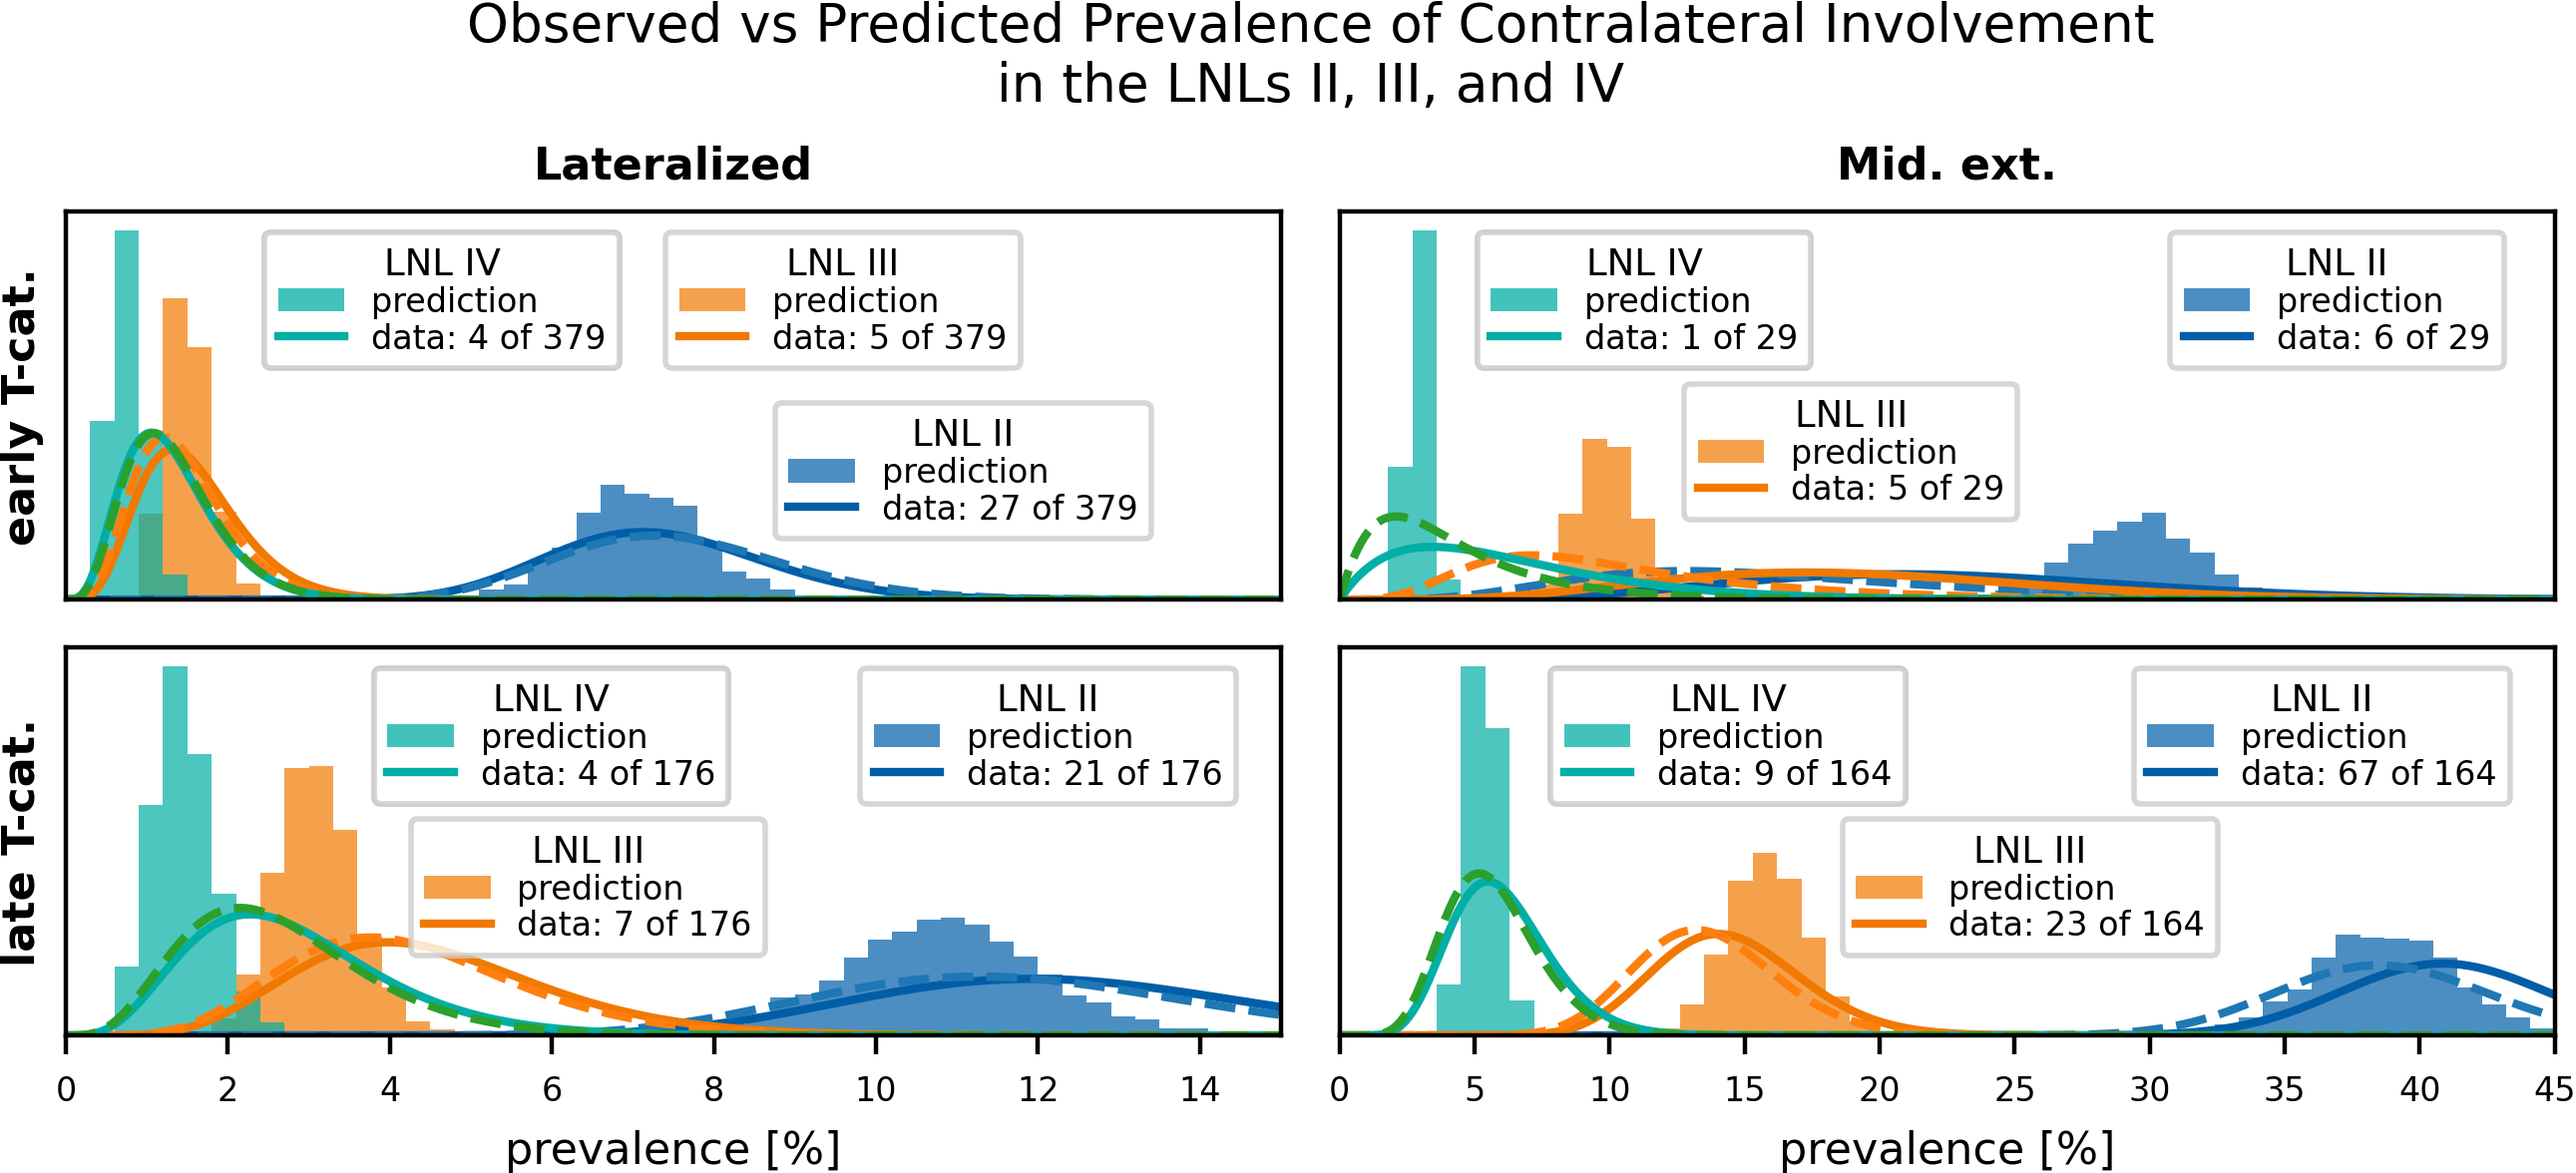
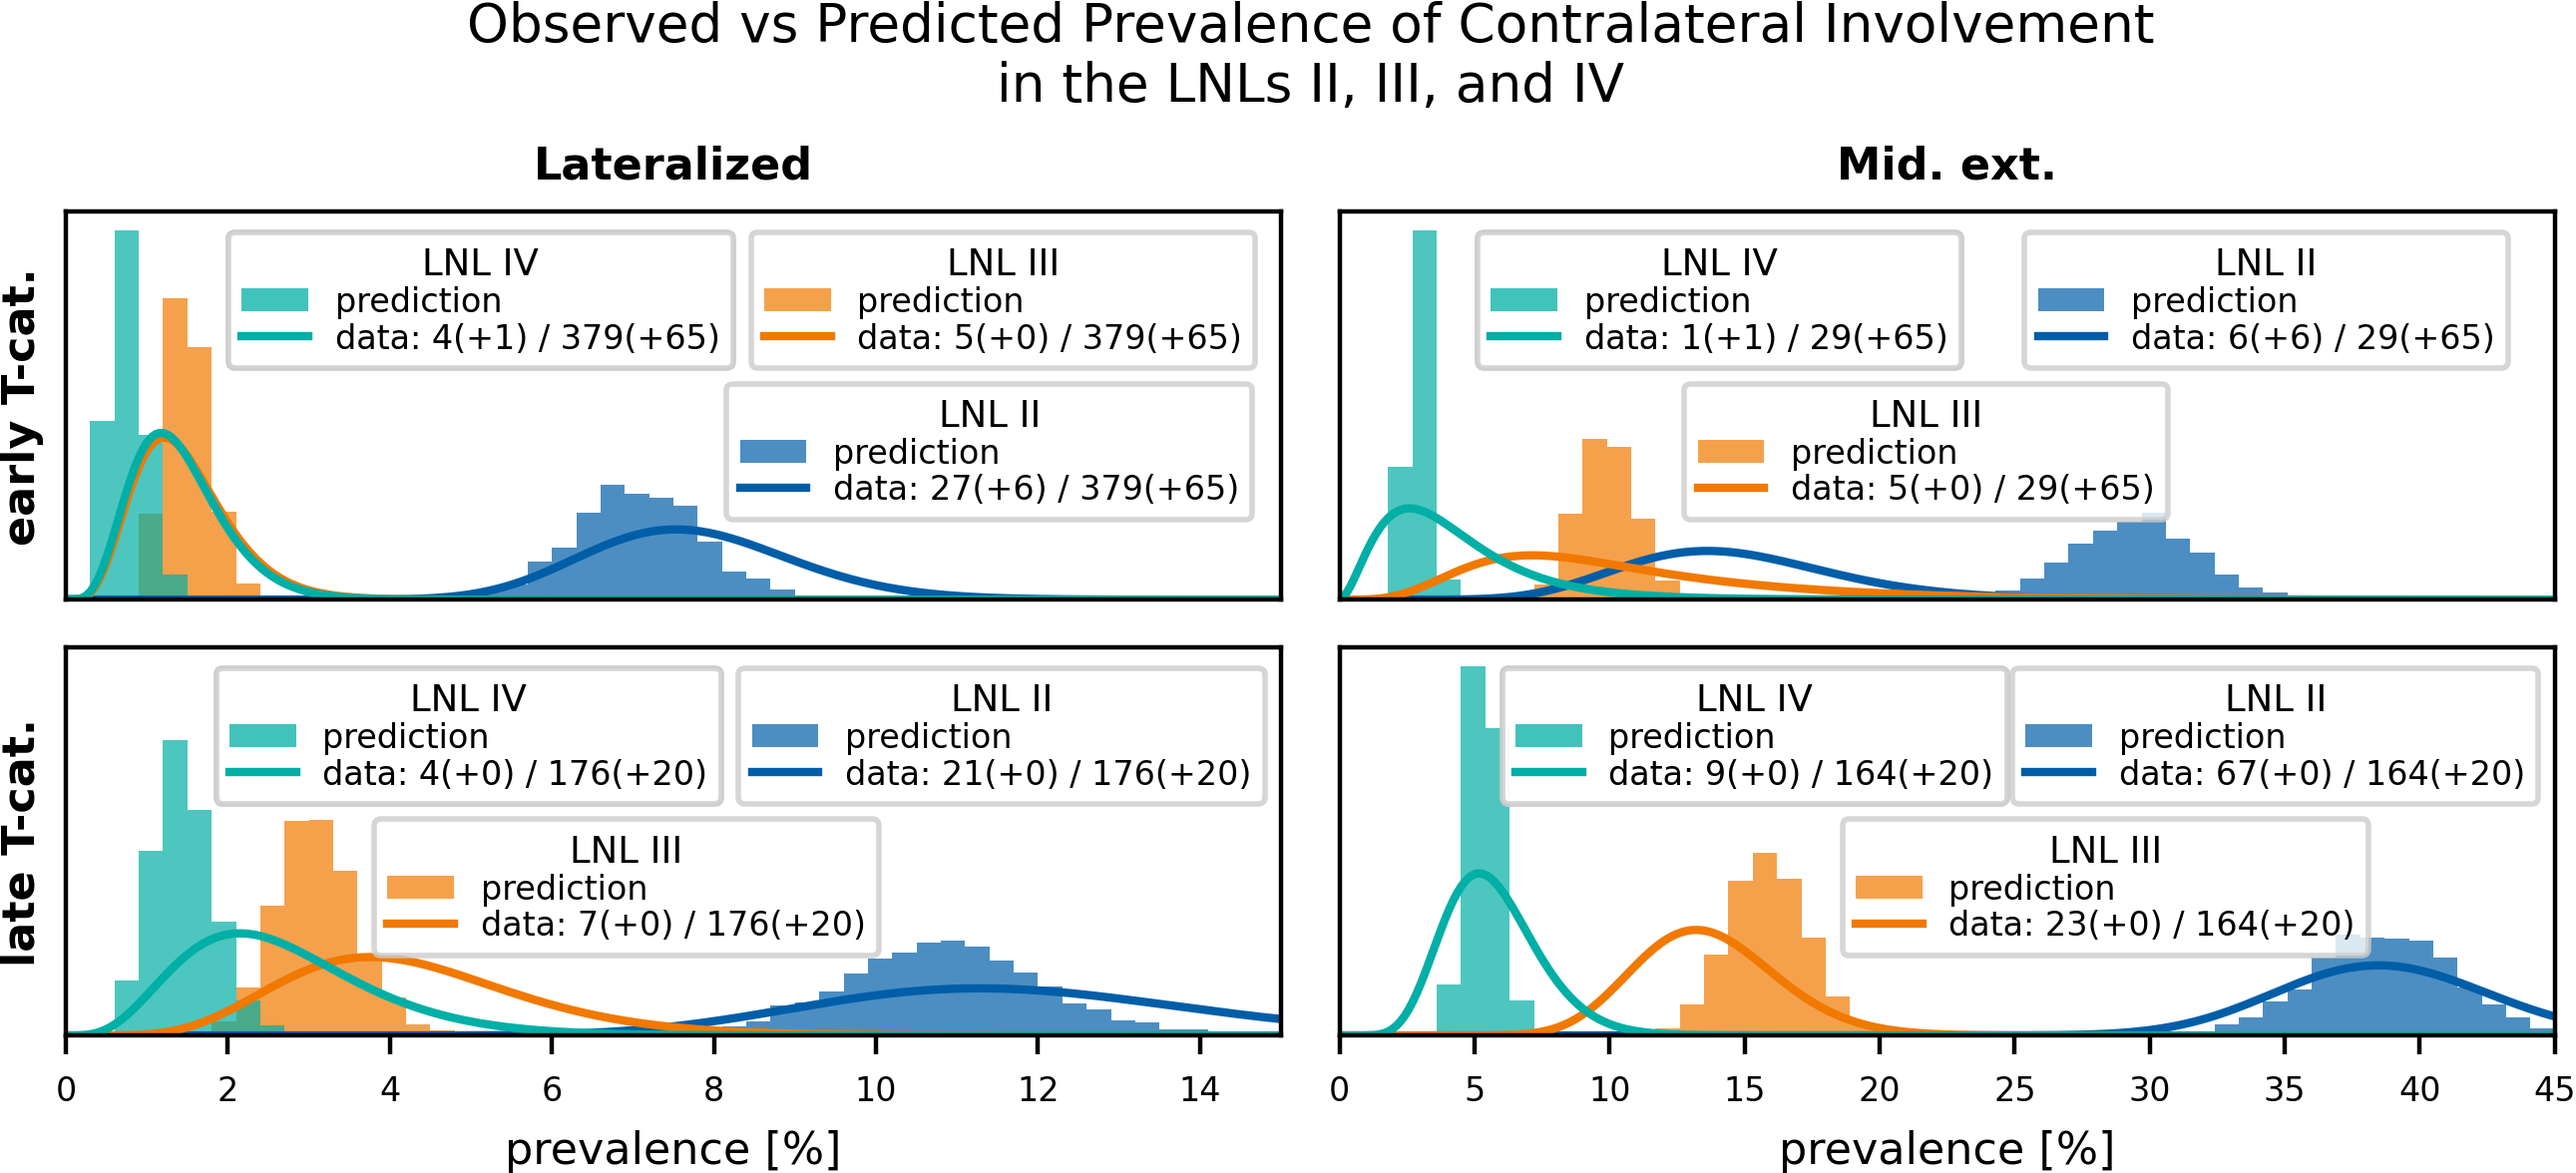
switch to marginals over unknown combos

diff --git a/scripts/marginalize_midext.py b/scripts/marginalize_midext.py
@@ -4,7 +4,7 @@ Marginalize over *observd* midline extension status using sums of beta posterior
 
 import math
 from dataclasses import dataclass
-from typing import Any, TypeVar
+from typing import Any, Generator, TypeVar
 import matplotlib.pyplot as plt
 from matplotlib.axes import Axes as MPLAxes
 import pandas as pd
@@ -27,10 +27,7 @@ def max_possible_matches(num_match: int, num_total: int) -> int:
     return min(num_total, num_match) + 1
 
 def min_possible_matches(num_not_match: int, num_total: int) -> int:
-    """Minimum number of additional possible matches.
-
-    TODO: I think there's an error here.
-    """
+    """Minimum number of additional possible matches."""
     return min(num_total, max(0, num_total - num_not_match))
 
 
@@ -40,7 +37,7 @@ def possible_prevalence_combinations(
     """Extract possible combinations of prevalences.
 
     Essentially, this computes the prevalence of a scenario in all the data where
-    midline extension is known. To this is adds the `possible_combinations` of the
+    midline extension is known. To this is adds the `possible_combinations()` of the
     prevalence in the data where midline extension is unknown.
     """
     base_num_match, base_num_total = compute_observed_prevalence(data, scenario)
@@ -62,6 +59,19 @@ def possible_prevalence_combinations(
     return combs
 
 
+def _possible_combinations(matches: int, max_total: int) -> Generator[dict, None, None]:
+    for possible_total in range(max_total + 1):
+        for possible_matches in range(
+            min_possible_matches(max_total - matches, possible_total),
+            max_possible_matches(matches, possible_total),
+        ):
+            yield {
+                "matches": possible_matches,
+                "total": possible_total,
+                "permutations": math.comb(possible_total, possible_matches),
+            }
+
+
 def possible_combinations(matches: int, max_total: int) -> pd.DataFrame:
     """Tabulate possible combinations of matches, totals, and num of permutations.
 
@@ -69,6 +79,13 @@ def possible_combinations(matches: int, max_total: int) -> pd.DataFrame:
     the respective combo has) of the number of matches in a possible total. This total
     may range from 0 to ``max_total``, while the number of matches may range from
     `min_possible_matches` to `max_possible_matches`.
+
+    Essentially, one can imagine an experiment where two coins A and B are flipped
+    ``max_total`` times, but only the results of coin B are recorded. We record
+    ``matches`` number of heads in coin B and are interested in the number of heads in
+    coin B, *given* coin A showed heads. This function computes all possible
+    combinations of the number of heads in coin B, given the number of heads in coin A
+    and how many permutations each combination has.
 
     >>> combs = possible_combinations(2, 5)
     >>> combs
@@ -86,25 +103,10 @@ def possible_combinations(matches: int, max_total: int) -> pd.DataFrame:
     10        2      4             6
     11        2      5            10
     """
-    combinations = pd.DataFrame(columns=["matches", "total", "permutations"])
-    idx = 0
-
-    for possible_total in range(max_total + 1):
-        for possible_matches in range(
-            min_possible_matches(max_total - matches, possible_total),
-            max_possible_matches(matches, possible_total),
-        ):
-            combinations.loc[idx] = {
-                "matches": possible_matches,
-                "total": possible_total,
-                "permutations": math.comb(possible_total, possible_matches),
-            }
-            idx += 1
-
-    return combinations
+    return pd.DataFrame(_possible_combinations(matches, max_total))
 
 
-def prepare_betas(
+def _prepare_betas(
     matches: np.ndarray,
     total: np.ndarray,
 ):
@@ -122,26 +124,27 @@ def prepare_betas(
 def summed_beta_pdf(
     x: np.ndarray,
     matches: np.ndarray,
-    total: np.ndarray,
+    max_total: np.ndarray,
     permutations: np.ndarray,
 ) -> np.ndarray:
-    """Sum beta PDFs and normalize them.
+    """Normalized sum of beta PDFs using `possible_combinations()`.
 
-    >>> x = np.linspace(0, 1, 100)
+    >>> x = np.linspace(0, 1, 1000)
     >>> combs = possible_combinations(2, 5)
     >>> result = summed_beta_pdf(
     ...     x,
     ...     combs.matches.values,
     ...     combs.total.values,
     ...     combs.permutations.values
-    ... ).sum()
-    >>> np.isclose(result, 1)
+    ... )
+    >>> from scipy.integrate import trapz
+    >>> np.isclose(trapz(result, x), 1.0)
     True
     """
     if len(x.shape) == 1:
         x = x[:, None]
 
-    beta_pdfs = prepare_betas(matches, total).pdf(x)
+    beta_pdfs = _prepare_betas(matches, max_total).pdf(x)
     summed_pdfs = beta_pdfs @ permutations
     return summed_pdfs / permutations.sum()
 
@@ -149,26 +152,26 @@ def summed_beta_pdf(
 def summed_beta_cdf(
     x: np.ndarray,
     matches: np.ndarray,
-    total: np.ndarray,
+    max_total: np.ndarray,
     permutations: np.ndarray,
 ) -> np.ndarray:
-    """Sum beta CDFs.
+    """Normalized sum of beta CDFs using `possible_combinations()`.
 
-    >>> x = np.linspace(0, 1, 100)
+    >>> x = np.linspace(0, 1, 1001)
     >>> combs = possible_combinations(2, 5)
     >>> result = summed_beta_cdf(
     ...     x,
     ...     combs.matches.values,
     ...     combs.total.values,
     ...     combs.permutations.values
-    ... )[-1]
-    >>> np.isclose(result, 1)
+    ... )
+    >>> np.isclose(result[-1], 1)
     True
     """
     if len(x.shape) == 1:
         x = x[:, None]
 
-    beta_cdfs = prepare_betas(matches, total).cdf(x)
+    beta_cdfs = _prepare_betas(matches, max_total).cdf(x)
     summed_cdfs = beta_cdfs @ permutations
     return summed_cdfs / summed_cdfs[-1]
 
@@ -178,12 +181,12 @@ FloatOrArrayT = TypeVar("FloatOrArrayT", float, np.ndarray)
 def summed_beta_ppf(
     q: FloatOrArrayT,
     matches: np.ndarray,
-    total: np.ndarray,
+    max_total: np.ndarray,
     permutations: np.ndarray,
 ) -> FloatOrArrayT:
-    """PPF of summed CDFs."""
+    """Inverse of normalized sum of beta CDFs using `possible_combinations()`."""
     x = np.linspace(0, 1, 1000)
-    y = summed_beta_cdf(x, matches, total, permutations)
+    y = summed_beta_cdf(x, matches, max_total, permutations)
 
     return np.interp(q, y, x)
 
@@ -202,12 +205,12 @@ class SummedBetaPosterior(BetaPosterior):
 
     def _get_label(self) -> str:
         min_success = self.num_success.min()
-        max_success = self.num_success.max()
+        diff_success = self.num_success.max() - min_success
         min_total = self.num_total.min()
-        max_total = self.num_total.max()
+        diff_total = self.num_total.max() - min_total
         return (
-            f"data: {min_success} to {max_success} "
-            f"of {min_total} to {max_total}"
+            f"data: {min_success}(+{diff_success}) "
+            f"/ {min_total}(+{diff_total})"
         )
 
     @property
@@ -218,7 +221,7 @@ class SummedBetaPosterior(BetaPosterior):
         return summed_beta_pdf(
             (x - self.offset) / self.scale,
             matches=self.num_success,
-            total=self.num_total,
+            max_total=self.num_total,
             permutations=self.permutations,
         ) / self.scale
 
@@ -226,7 +229,7 @@ class SummedBetaPosterior(BetaPosterior):
         return summed_beta_ppf(
             percent / 100.,
             matches=self.num_success,
-            total=self.num_total,
+            max_total=self.num_total,
             permutations=self.permutations,
         ) * self.scale + self.offset
 
@@ -234,7 +237,7 @@ class SummedBetaPosterior(BetaPosterior):
         return summed_beta_ppf(
             1 - (percent / 100.),
             matches=self.num_success,
-            total=self.num_total,
+            max_total=self.num_total,
             permutations=self.permutations,
         ) * self.scale + self.offset
 
